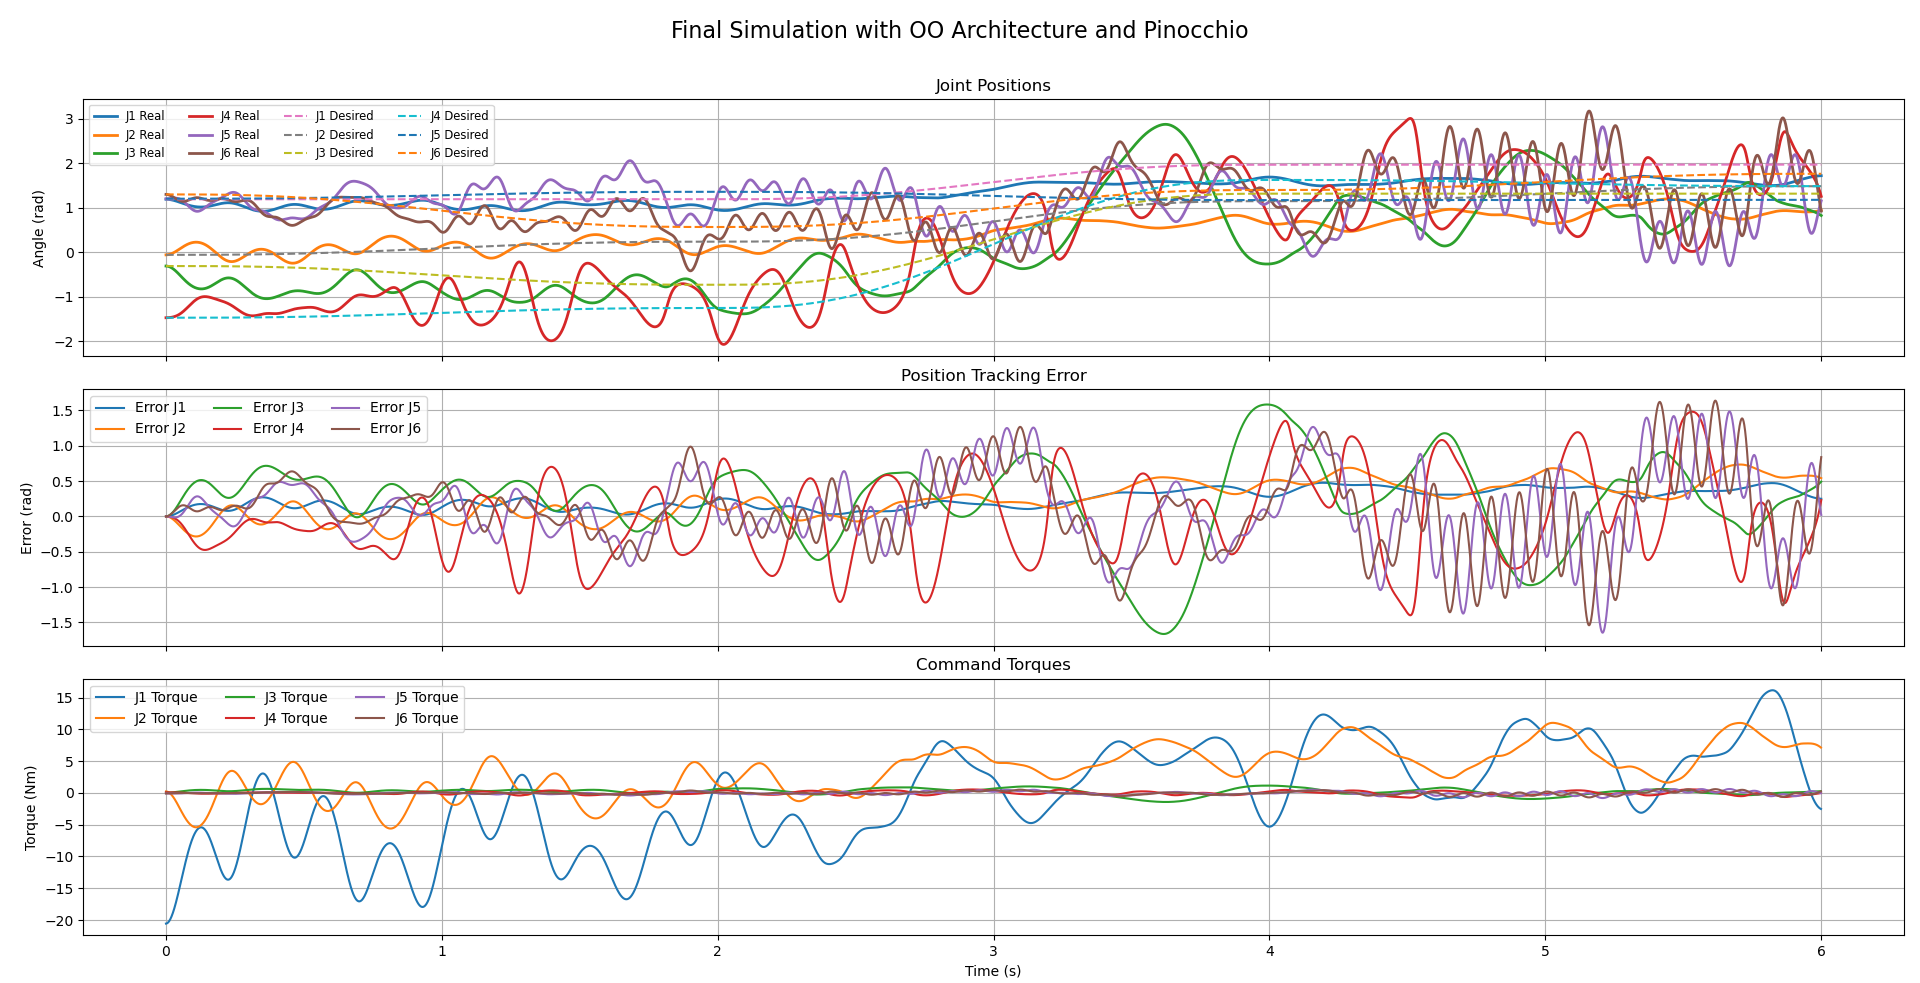
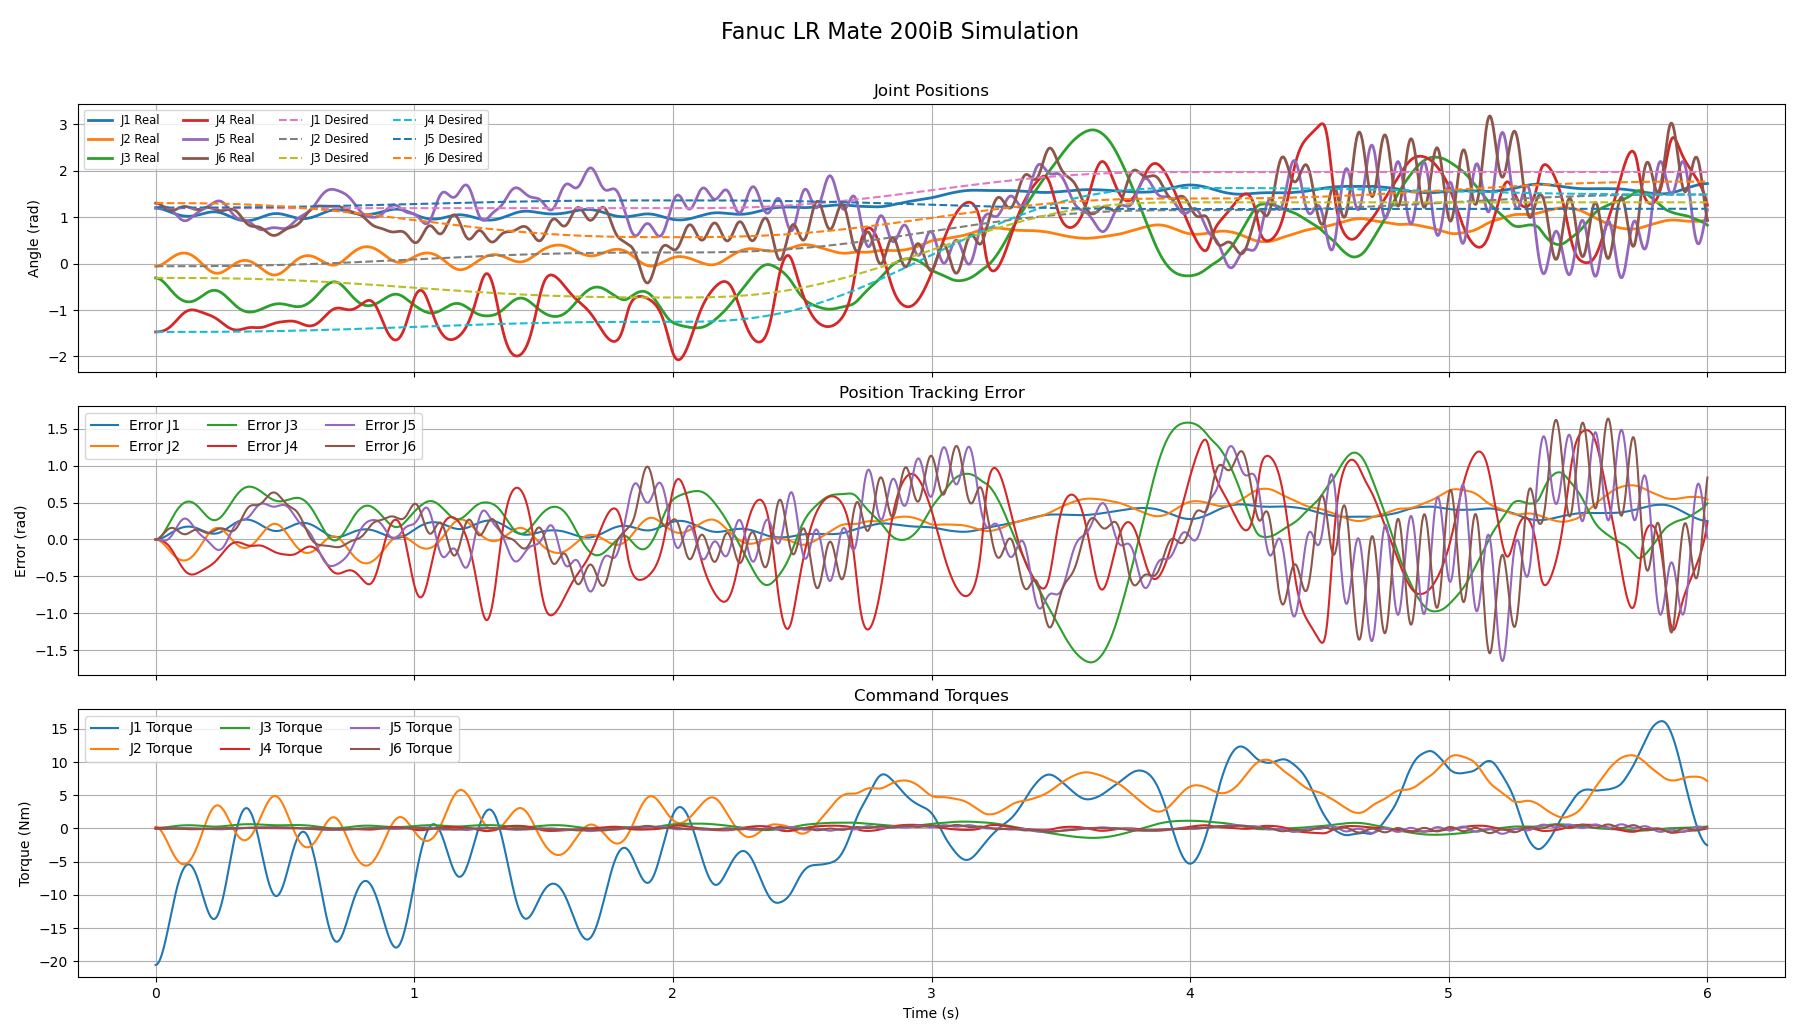
Fixed image to the correct one

diff --git a/main.py b/main.py
@@ -125,7 +125,7 @@ if __name__ == "__main__":
     # plot
     print("Generating graphs...")
     fig, axs = plt.subplots(3, 1, figsize=(18, 12), sharex=True)
-    fig.suptitle("Final Simulation with OO Architecture and Pinocchio", fontsize=16)
+    fig.suptitle("Fanuc LR Mate 200iB Simulation", fontsize=16)
 
     axs[0].plot(time_hist, q_hist, lw=2)
     axs[0].plot(time_hist, q_des_hist, '--', lw=1.5)
